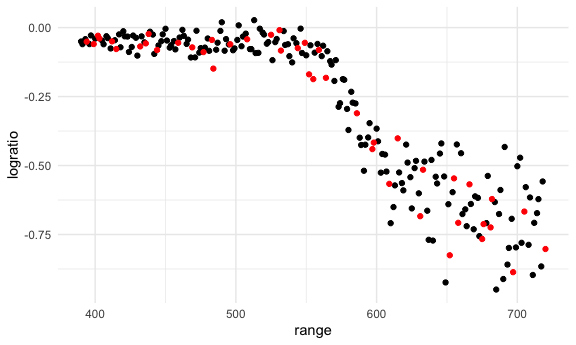
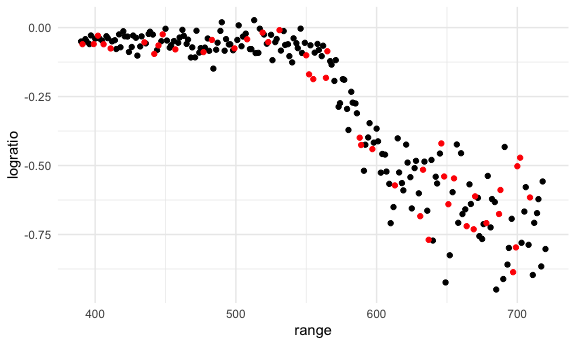
repeated cv splits for lidar data

diff --git a/02_cross_validation.md b/02_cross_validation.md
@@ -77,16 +77,93 @@ do a model comparison!
 rmse(linear_mod, test_df)
 ```
 
-    ## [1] 0.1306354
+    ## [1] 0.13222
 
 ``` r
 rmse(smooth_mod, test_df)
 ```
 
-    ## [1] 0.06879669
+    ## [1] 0.08631311
 
 ``` r
 rmse(wiggly_mod, test_df)
 ```
 
-    ## [1] 0.0781548
+    ## [1] 0.09691987
+
+## Repeat a bunch of times
+
+Use some nice tools
+
+``` r
+cv_df = 
+  crossv_mc(lidar_df, 100)
+
+cv_df |>  pull(train) |> nth(3) |> as_tibble()
+```
+
+    ## # A tibble: 176 × 3
+    ##       id range logratio
+    ##    <int> <dbl>    <dbl>
+    ##  1     3   393  -0.0419
+    ##  2     4   394  -0.0510
+    ##  3     5   396  -0.0599
+    ##  4     7   399  -0.0596
+    ##  5     8   400  -0.0399
+    ##  6     9   402  -0.0294
+    ##  7    11   405  -0.0476
+    ##  8    12   406  -0.0604
+    ##  9    13   408  -0.0312
+    ## 10    14   409  -0.0382
+    ## # ℹ 166 more rows
+
+``` r
+cv_df = 
+  crossv_mc(lidar_df, 100) |> 
+  mutate(
+    train = map(train, as_tibble),
+    test = map(test, as_tibble)
+  )
+```
+
+let’s fit models and get rmses for these.
+
+``` r
+rmse_comp = function(model, dataset) {
+  
+  rmse(model, dataset)
+  
+}
+```
+
+``` r
+cv_df = 
+  cv_df |> 
+  mutate(
+    linear_fit = map(train, \(df) lm(logratio ~ range, data = df)),
+    smooth_fit = map(train, \(df) gam(logratio ~ s(range), data = df)),
+    wiggly_fit = map(train, \(df) gam(logratio ~ s(range, k = 30), sp = 10e-6, data = df))
+  ) |> 
+  mutate(
+    rmse_linear = map2_dbl(linear_fit, test, rmse),
+    rmse_smooth = map2_dbl(smooth_fit, test, rmse),
+    rmse_wiggly = map2_dbl(wiggly_fit, test, rmse)
+  )
+```
+
+Look at this!!
+
+``` r
+cv_df |> 
+  select(starts_with("rmse_")) |> 
+  pivot_longer(
+    everything(),
+    names_to = "model",
+    names_prefix = "rmse_",
+    values_to = "rmse"
+  ) |> 
+  ggplot(aes(x = model, y = rmse)) + 
+  geom_violin()
+```
+
+<img src="02_cross_validation_files/figure-gfm/unnamed-chunk-12-1.png" alt="" width="90%" />
